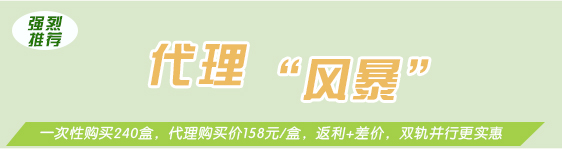
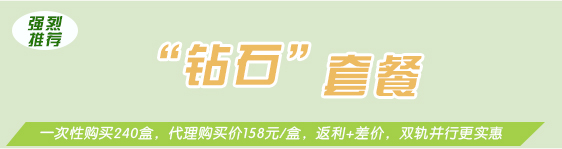
d

Changed region(s): [[0.242, 0.2685, 0.7865, 0.698]]

diff --git a/src/cart.html b/src/cart.html
@@ -119,7 +119,7 @@
                         <img src="./content/images/img-cart-btn1.jpg" alt="" />
                         </div>
                         <div class="cart-buttons-item-btn">
-                            <button class="btn btn-huiyuan" data-objident="<!--[= list[i].productId]-->">升级<br/>会员套餐</button>
+                            <button class="btn btn-huiyuan" data-objident="<!--[= list[i].productId]-->">升级<br/>金卡套餐</button>
                         </div>
                     </div>
                     <div class="cart-buttons-item">
@@ -127,7 +127,7 @@
                         <img src="./content/images/img-cart-btn2.jpg" alt="" />
                         </div>
                         <div class="cart-buttons-item-btn">
-                        <button class="btn btn-daili" data-objident="<!--[= list[i].productId]-->">升级<br/>代理套餐</button>
+                        <button class="btn btn-daili" data-objident="<!--[= list[i].productId]-->">升级<br/>钻石套餐</button>
                         </div>
                     </div>
                     <div class="cart-buttons-item">
@@ -135,7 +135,7 @@
                         <img src="./content/images/img-cart-btn3.jpg" alt="" />
                         </div>
                         <div class="cart-buttons-item-btn">
-                        <button class="btn btn-zongdai" data-objident="<!--[= list[i].productId]-->">升级<br/>总代套餐</button>
+                        <button class="btn btn-zongdai" data-objident="<!--[= list[i].productId]-->">升级<br/>皇冠套餐</button>
                         </div>
                     </div>
                 </div>
